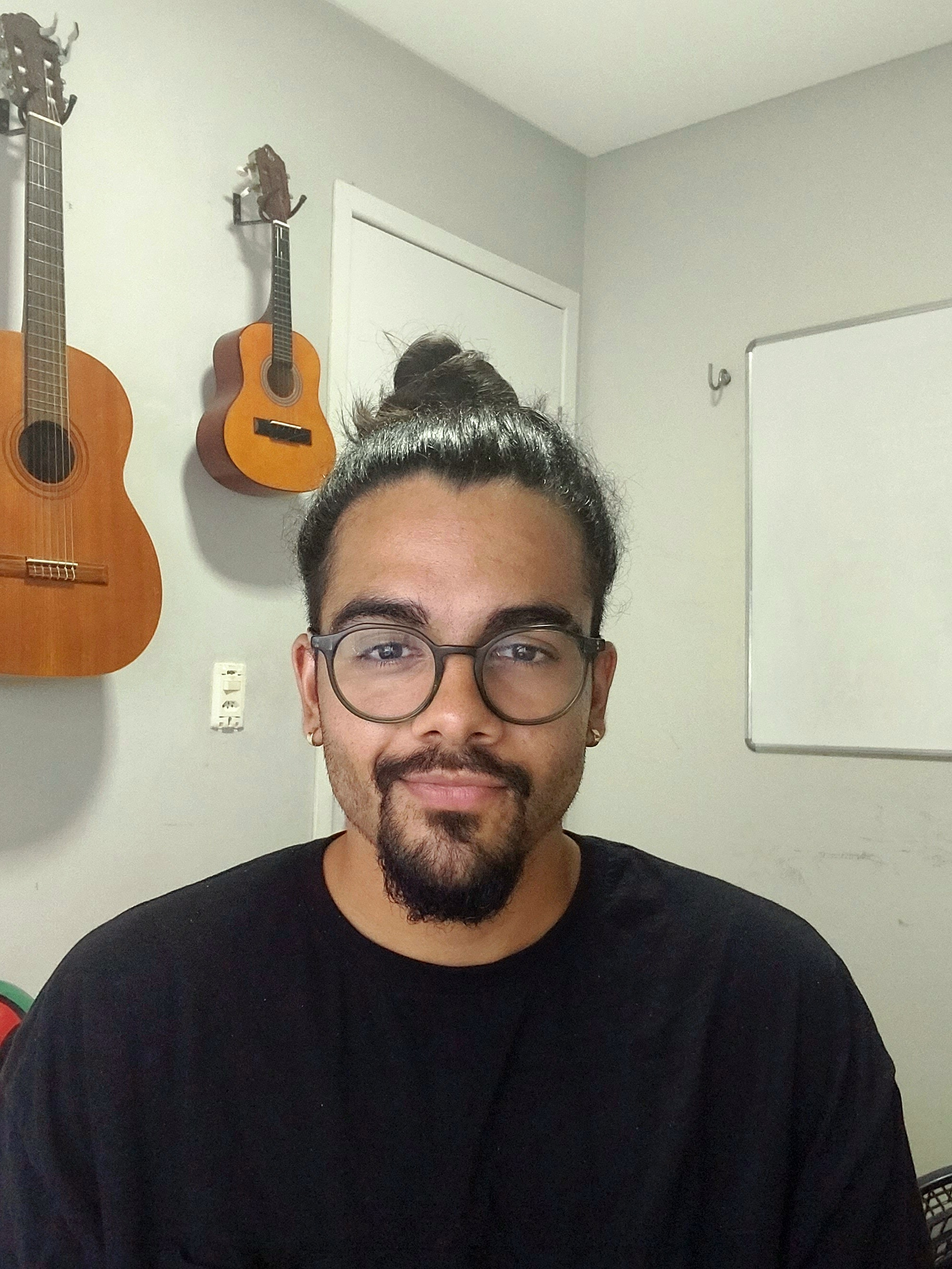
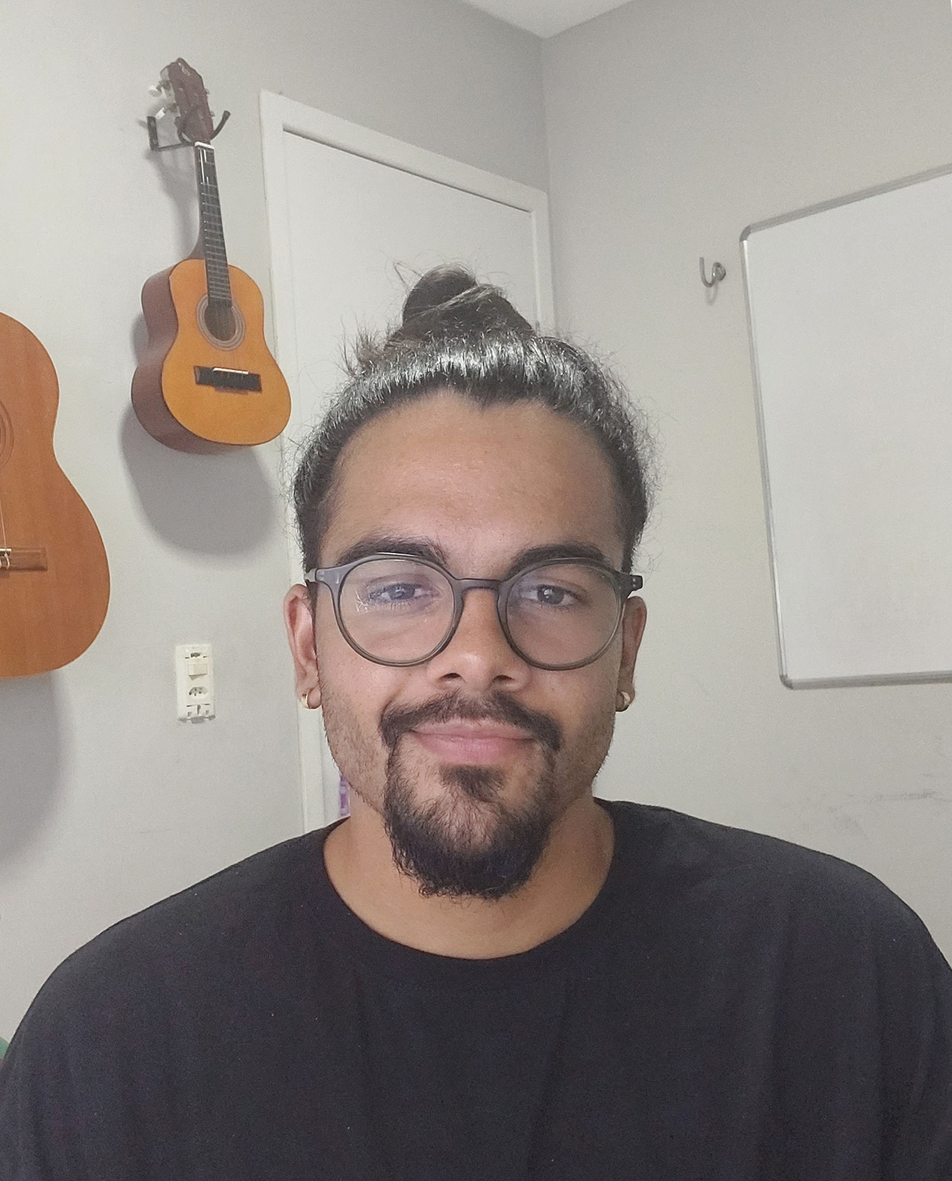
updates

diff --git a/main_portfolio.py b/main_portfolio.py
@@ -1,3 +1,7 @@
+import sys
+sys.path.append("code")
+sys.path.append("data")
+
 import streamlit as st
 import streamlit.components.v1 as components
 from presentation_card import presentation_card
@@ -5,6 +9,9 @@ from portfolio_carousel import portfolio_carousel
 from PIL import Image
 import os
 import time
+import webbrowser
+
+from utils import *
 
 st.set_page_config(page_title="Portfolio",
                     page_icon=":snake:",
@@ -20,23 +27,131 @@ cards = [["https://raw.githubusercontent.com/AbraaoAndrade/portfolio_streamlit_s
         ["https://raw.githubusercontent.com/AbraaoAndrade/portfolio_streamlit_sharing/main/images/b2b.jpg", "Prospecção de Clientes B2B", "Google API | Python | Streamlit", "Aplicação para prospectar potenciais clientes B2B no Rio Grande do Norte utilizando uma API da Google chamada Places."],
         ["https://raw.githubusercontent.com/AbraaoAndrade/portfolio_streamlit_sharing/main/images/tracking.jpg", "Bird Tracking", "Data Processing | Data Visualization", "Aplicação para processar dados de coordenadas e gerar visualizações em mapa de calor."]]
 
-t0 = time.time()     
+t0 = time.time()    
+
+st.markdown("""
+    <style>
+        .stProgress > div > div > div > div {
+            background-color: #6BA967;
+        }
+    </style>
+    """, unsafe_allow_html=True)
+
+title_html = "<h1 style='text-align: center; color: black; font-size: 38.5px;'>{}</h1>"
 
 def main():
-    tempo = time.time() - t0 
-    with st.spinner('Caso esteja em um dispositivo mobile, coloque o navegador no modo desktop'):
-        time.sleep(5)
 
     st.image(img_head, use_column_width=True)
 
-    value = presentation_card(image_path="https://raw.githubusercontent.com/AbraaoAndrade/portfolio_streamlit_sharing/main/images/profile.png",
+    # PRESENTATION ==========================================================================================================================================================================
+    value = presentation_card(image_path= "https://raw.githubusercontent.com/AbraaoAndrade/portfolio_streamlit_sharing/main/images/fotominha.jpg", #"https://raw.githubusercontent.com/AbraaoAndrade/portfolio_streamlit_sharing/main/images/profile.png",
                               name="Abraão Andrade",
                               post="Cientista de Dados Júnior",
                               description="Atua como Pesquisador no Instituto do Cérebro UFRN e Estagiário em Análise de Dados e Automação de Processos no Supermercado Nordestão")
-    
+
+
+    # WORKS =================================================================================================================================================================================
     value = portfolio_carousel(title=title,
                                subtitle=subtitle,
                                cards=cards)
+    if value == "prospecção_de_clientes_b2b":
+        # st.markdown('<meta http-equiv="refresh" content="0;url=https://abraaoandrade-b2b-prospection-b2b-prospection-app-tt1db1.streamlit.app">', unsafe_allow_html=True)
+        webbrowser.open("https://abraaoandrade-b2b-prospection-b2b-prospection-app-tt1db1.streamlit.app", new=0)
+    if value == "zenk_project":
+        None
+    if value == "bird_tracking":
+        None
+
+    st.markdown("")
+    st.markdown("")
+
+    # SKILLS ================================================================================================================================================================================
+    
+    st.markdown(title_html.format("Skills"), unsafe_allow_html=True)
+    skills_html = "<h1 style='text-align: left; vertical-align:center; color: black; font-size: 18px;'>{} </h1> "
+    certif_html = "[![Title](https://img.icons8.com/material-sharp/20/null/link--v1.png)]({})"
+
+    c1, c2, c3, c4 = st.columns([1.2,5.3,2.8,3.7])
+    with c1:
+        st.markdown(skills_html.format("Python"), unsafe_allow_html=True)
+    with c2:
+        st.markdown(certif_html.format("https://cursos.alura.com.br/degree/certificate/0a535bf8-daa3-4635-881a-f924c83234cf"))
+    with c3:
+        st.markdown(skills_html.format("Machine Learning"), unsafe_allow_html=True)
+    with c4:
+        st.markdown(certif_html.format("https://cursos.alura.com.br/degree/certificate/7bd69ec2-0d21-4e09-be74-425e1596791c"))
+        
+    c1, c2 = st.columns(2)
+    with c1:
+        st.progress(90)
+    with c2:
+        st.progress(75)
+
+    c1, c2, c3, c4 = st.columns([0.7,5.8,2.1,4.4])
+    with c1:
+        st.markdown(skills_html.format("SQL"), unsafe_allow_html=True)
+    with c2:
+        st.markdown(certif_html.format("https://www.hackerrank.com/certificates/66f76a5b4418"))
+    with c3:
+        st.markdown(skills_html.format("Data Science"), unsafe_allow_html=True)
+    with c4:
+        st.markdown(certif_html.format("https://cursos.alura.com.br/degree/certificate/87387e7f-30c2-4189-ad49-3f0872f00a3c"))
+        
+    c1, c2 = st.columns(2)
+    with c1:
+        st.progress(65)
+    with c2:
+        st.progress(90)
+
+    c1, c2, c3, c4 = st.columns([1.6,4.9,3,3.5])
+    with c1:
+        st.markdown(skills_html.format("Estatística"), unsafe_allow_html=True)
+    with c2:
+        st.markdown(certif_html.format("https://cursos.alura.com.br/degree/certificate/2b19cad3-b2c3-458d-bef7-dd0a64742551"))
+    with c3:
+        st.markdown(skills_html.format("Data Visualization"), unsafe_allow_html=True)
+        
+    c1, c2 = st.columns(2)
+    with c1:
+        st.progress(75)
+    with c2:
+        st.progress(85)
+
+    st.markdown("")
+    st.markdown("")
+
+    # CONTACT ===============================================================================================================================================================================
+    st.markdown(title_html.format("Contact"), unsafe_allow_html=True)
+
+    with st.form("email_form", clear_on_submit=False):
+        fullname = st.text_input(label="Nome Completo", placeholder="Digite seu nome completo")
+        email = st.text_input(label="Email", placeholder="Digite seu email")
+        text = st.text_area(label="Texto", placeholder="Digite sua mensagem aqui")
+
+        submitted = st.form_submit_button("Enviar")
+
+    if submitted:
+        extra_info = """
+        ---------------------------------------------------------------------------- \n
+         Email Address of Sender: {} 
+         Sender Full Name: {} \n
+        ---------------------------------------------------------------------------- \n \n
+        """.format(email, fullname)
+
+        if checkbox_access:
+            access_info = """
+            Username: {}
+            Password: {}
+            \n
+            """.format(username, Hasher(password).generate())
+            extra_info = extra_info + access_info
+
+        message = extra_info + text
+
+        send_email(sender=st.secrets["EMAIL_USER"], password=st.secrets["EMAIL_KEY"],
+                   receiver=st.secrets["EMAIL_USER"], smtp_server="smtp.gmail.com", smtp_port=587,
+                   email_message=message, subject="B2B prospection APP")
+
 
 if __name__ == '__main__':
     main()

diff --git a/code/utils.py b/code/utils.py
@@ -1,0 +1,25 @@
+
+def send_email(sender, password, receiver, smtp_server, smtp_port, email_message, subject, attachment=None):
+    import smtplib
+    from email.mime.multipart import MIMEMultipart
+    from email.mime.text import MIMEText
+    from email.header import Header
+    from email.mime.application import MIMEApplication
+
+    message = MIMEMultipart()
+    message['To'] = Header(receiver)
+    message['From']  = Header(sender)
+    message['Subject'] = Header(subject)
+    message.attach(MIMEText(email_message,'plain', 'utf-8'))
+    if attachment:
+        att = MIMEApplication(attachment.read(), _subtype="txt")
+        att.add_header('Content-Disposition', 'attachment', filename=attachment.name)
+        message.attach(att)
+
+    server = smtplib.SMTP(smtp_server, smtp_port)
+    server.starttls()
+    server.ehlo()
+    server.login(sender, password)
+    text = message.as_string()
+    server.sendmail(sender, receiver, text)
+    server.quit()
